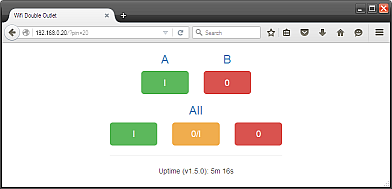
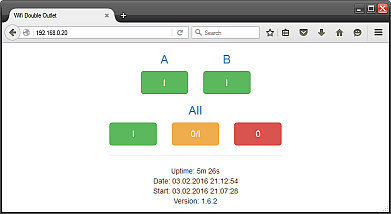
Fixed a typo in generating HTTP header 501 in processing.lua and amended project description.

Changed region(s): [[0.0, 0.0, 1.0, 0.9524], [0.2762, 0.5556, 0.399, 0.7937], [0.0, 0.9524, 1.0, 1.0]]

diff --git a/README.md b/README.md
@@ -1,13 +1,16 @@
-#NodeMCU-WifiDoubleSwitch<br><small>version 1.5.0</small>
-NodeMCU based web server within ESP8266 for switching two pins from the browser through WiFi. The project contains a couple of configuration files, where each of them sets up particular aspect of the project.
+#NodeMCU-WifiDoubleSwitch<br><small>version 1.6.x</small>
+NodeMCU based web server within ESP8266 for switching two pins from the web browser through WiFi. The project contains a couple of configuration files, where each of them sets up particular aspect of the project (application).
 
 A **simple HTML templating** mechanism is used for creating various versions of HTML pages based on placeholders. HTML pages employ *Twitter Bootstrap 3.3.6.* and periodical refreshing for displaying current status of the system.
 
 
 <a id="dependency"></a>
 ##Dependency
-- **NodeMCU 1.4+**: Used appropriate mechanizm for sending HTTP responses incompatible with framework version *0.9-*.
-- **s2eta**: Module for converting elapsed seconds to time string with *days, hours, minutes, and seconds* components.
+- **NodeMCU 1.4+**: Used appropriate mechanism for sending HTTP responses incompatible with framework version *0.9-*.
+- **[s2eta](https://github.com/mrkale/NodeMCU-Modules/tree/master/s2eta)**: External module for converting elapsed seconds to a time string with *days, hours, minutes, and seconds* components.
+- **[nistclock](https://github.com/mrkale/NodeMCU-Modules/tree/master/nistclock)**: External module for reading network date and time from NIST time servers.
+
+*External modules listed above should be uploaded to the system alongside with scripts in the project.*
 
 
 <a id="scripts"></a>
@@ -17,19 +20,25 @@ NodeMCU lua scripts. For better performance and memory efficiency all the progra
 
 <a id="init"></a>
 ###init.lua
-Initial script running at power cycle. It
+Initial script running at power cycle (boot) or software restart. It
 - automatically compiles all *.lua* files except itself
 - creates connection to a Wifi network in station mode
 - reconnects to Wifi network after connection lost
 - launches configuration tables from configuration files
-- measures uptime (from recent restart) of the system
+- measures uptime (from recent restart) of the system with module [nistclock](#dependency)
 - creates web server running in the ESP8266
 - defines file names for used HTML templates
+- contains tables with English names of week days months for generating HTTP header *Date*.
+
+
+	The script uses the separate external module nistclock. 
+
 
 ###config_creds.lua
 The script creates configuration table with credentials for preferred WiFi network as well as for web server basic HTTP authorization.
 - The credential configuration table may containg IP configuration table for establishing static IP address. 
 - Update values according to your situation.
+
 
 ###config_pins.lua
 The script creates configuration table with hardware configuration. It simply defines the order of pins in HTML templates, their NodeMCU numbers, and keeps current state of pins.
@@ -38,18 +47,19 @@ The state of pins in the script is considered as the initial state after power u
 
 *In spite of just two pins defined in the configuration table, it can be extended by whatever number of other pins with corresponding updates in HTML templates in order to control more output devices.*  
 
+
 ###config_switch.lua
-The script creates the configuration table for rendering HTML pages with help of Bootstrap classes and the table for HTTP headers. The script alsa defines language independence symbols (characters) for *switching on* (I) and *switching off* (0).  
+The script creates the configuration table for rendering HTML pages with help of Bootstrap classes and the table for HTTP headers. The script also defines language independence symbols (characters) for *switching on* (I) and *switching off* (0).  
 This script should be updated only if you wish to change the visual and color appearance of HTML pages and/or *assign different gpio state to pin  state*.
 
 	Current gpio state of pins is set for low active relays.   
 
+
 ###processing.lua
 The script processes HTTP requests, executes commands from them, and creates HTTP responses including HTTP headers from HTML templates by substituting placeholders in them with current state of pins and corresponding rendering.
-Thanks to reading an HTML template at each HTTP request, the templates can be replaced on the system on the fly, which is substantially useful at tuning the HTML page.
-At sending HTML pages the script uses callback function if running in framework major version 1 and on, but uses multiple send commands if running in previous major versions of the framework.
+Thanks to reading an HTML template from the file system at each HTTP request, the templates can be replaced on the system on the fly, which is substantially useful at tuning the HTML page or where continues working is essential.
 
-	The script uses the separate module s2eta. 
+	The script uses the separate external module s2eta. 
 
 
 [Back to scripts](#scripts)
@@ -59,17 +69,24 @@ At sending HTML pages the script uses callback function if running in framework 
 ##Templates
 HTML templates for the web server running within the ESP8266 module.
 
-###tmpl_page.html
-The default name of the regular HTML template for control of pins. Different template variation has to be renamed to this default name. The default name can be changed in the script [init.lua](#init).
 
-- The template uses Bootstrap 3.3.6 framework imported from CDN.
+###tmpl_page.html
+The default name of the regular HTML template for control pins. Different template variation has to be renamed to this default name. The default name can be changed in the script [init.lua](#init).
+
+- The template uses Twitter Bootstrap 3.3.6 framework imported from CDN.
 - The template is fully responsive and is designed primarily for small devices.
-- The templated does not imports Bootstrap javascripts.
-- The placeholders of the template are based on command shell variable substitution (*${varname}*).
-- Bellow the bottom line there is the uptime and current version (in braces) displayed.
+- The template does not import Bootstrap javascripts.
+- The placeholders of the template are based on linux command shell variable substitution (*${varname}*).
+- Bellow the bottom line there is displayed this information:
+	- Uptime in AT format since start time
+	- Current system time
+	- Start time of recent system (re)start
+	- Version of the application
+
 
 ######Layout for medium and large devices
 ![medium and large devices](screenshot_medium_full.png)
+
 
 ######Layout for small and extra small devices
 ![small and extra small devices](screenshot_small_full.png)
@@ -96,27 +113,36 @@ The HTML template for failed authorization to the web server.
 This folder contains other HTML template variations and their language mutations.
 
 - HTML templates in languages with diacritical characters should be coded in UTF-8.
+- Templates in this folder should be renamed to names aforementioned in chapter [templates](#templates) in order to use them in the application, i.e., variation and language suffixes should be removed from file names.
+
 
 ###tmpl_page_twofull_en.html
-English mutation of the primary HTML template for control of two pins individually as well as both of them at once including toggling them.
+English mutation of the primary HTML template for control two pins individually as well as both of them at once including toggling them.
+
 
 ###tmpl_page_twofull_sk.html
 Slovak mutation of the previous template.
 
+
 ###tmpl_page_twosimple_en.html
-English mutation of the simplified HTML template for control of two pins individually only, i.e., **without** control and toggle then at once. 
+English mutation of the simplified HTML template for control two pins individually only, i.e., **without** control and toggling them at once. 
+
 
 ###tmpl_page_twosimple_sk.html
 Slovak mutation of the previous template.
 
+
 ###tmpl_page_one_en.html
-English mutation of the trivial HTML template for control of just one (the first) pin.
+English mutation of the trivial HTML template for control just one (the first) pin.
+
 
 ###tmpl_page_one_sk.html
 Slovak mutation of the previous template.
 
+
 ###tmpl_err_en.html
 English mutation of the HTML template for failed authorization to the web server.
+
 
 ###tmpl_err_sk.html
 Slovak mutation of the previous template.
